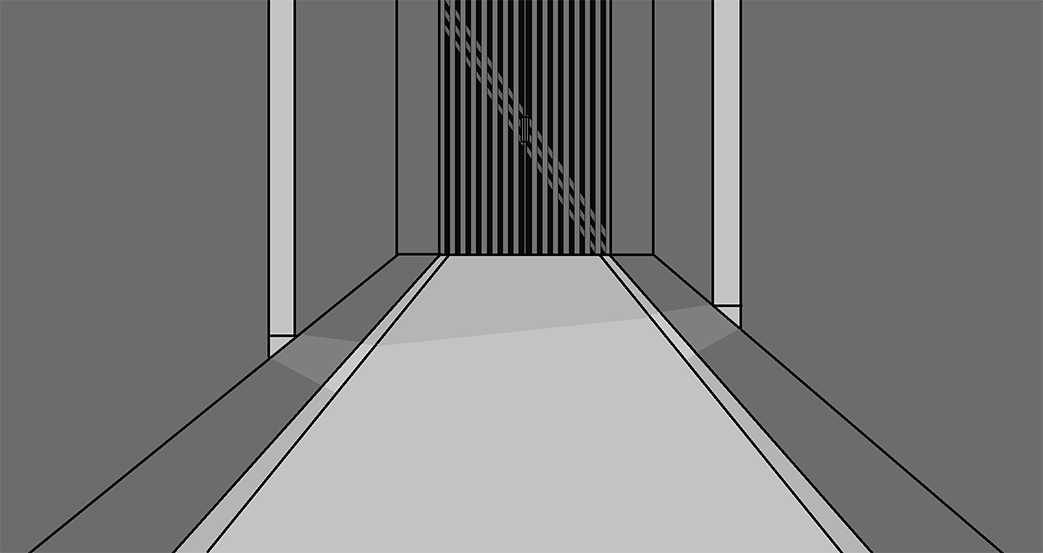
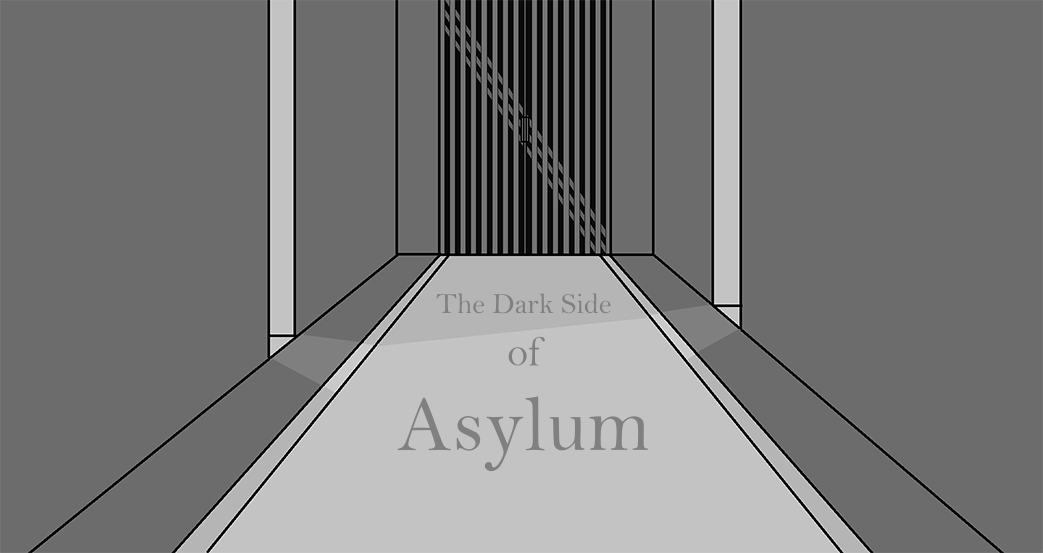
Imagem do menu com o nome e nome do jogo na titulo da screen

Changed region(s): [[0.3682, 0.7071, 0.6443, 0.8608], [0.4295, 0.5226, 0.5829, 0.5841], [0.4909, 0.6148, 0.5216, 0.6763]]

diff --git a/The dark side of asylum-core/src/com/the_darkside_of_asylum_jogo/game/tela/Escolhas.java b/The dark side of asylum-core/src/com/the_darkside_of_asylum_jogo/game/tela/Escolhas.java
@@ -319,7 +319,7 @@ public class Escolhas {
 		this.matriz [22][8] = "/home/leticia/git/The-dark-side-of-asylum/The dark side of asylum-core/assets/Imagens/Escolhas/10-1.png";
 		this.matriz [22][9] = "Remedio";
 		this.matriz [22][10] = "Remedio";
-		this.matriz [22][11] = "Remedio";
+		this.matriz [22][11] = "Porta";
 		
 		this.matriz [23][0] = "Procurar novas evid�ncias no quarto do paciente suspeito";
 		this.matriz [23][1] = "/home/leticia/git/The-dark-side-of-asylum/The dark side of asylum-core/assets/Imagens/Textos/24.png";
@@ -404,27 +404,27 @@ public class Escolhas {
 		this.matriz [29][2] = "";
 		this.matriz [29][3] = "";
 		this.matriz [29][4] = "";
-		this.matriz [29][9] = "";
-		this.matriz [29][10] = "";
-		this.matriz [29][11] = "";
+		this.matriz [29][5] = "";
+		this.matriz [29][6] = "";
+		this.matriz [29][7] = "";
 		
 		this.matriz [30][0] = "Volta pra ilha com uma equipe de busca";
 		this.matriz [30][1] = "/home/leticia/git/The-dark-side-of-asylum/The dark side of asylum-core/assets/Imagens/Textos/31.png";
 		this.matriz [30][2] = "";
 		this.matriz [30][3] = "";
 		this.matriz [30][4] = "";
-		this.matriz [30][9] = "";
-		this.matriz [30][10] = "";
-		this.matriz [30][11] = "";
+		this.matriz [30][5] = "";
+		this.matriz [30][6] = "";
+		this.matriz [30][7] = "";
 		
 		this.matriz [31][0] = "Resolve visitar seu bar favorito";
 		this.matriz [31][1] = "/home/leticia/git/The-dark-side-of-asylum/The dark side of asylum-core/assets/Imagens/Textos/32.png";
 		this.matriz [31][2] = "";
 		this.matriz [31][3] = "";
 		this.matriz [31][4] = "";
-		this.matriz [31][9] = "";
-		this.matriz [31][10] = "";
-		this.matriz [31][11] = "";
+		this.matriz [31][5] = "";
+		this.matriz [31][6] = "";
+		this.matriz [31][7] = "";
 		
 		this.matriz [32][0] = "Se dirige at� ele e se senta ao seu lado";
 		this.matriz [32][1] = "/home/leticia/git/The-dark-side-of-asylum/The dark side of asylum-core/assets/Imagens/Textos/33.png";
@@ -479,18 +479,18 @@ public class Escolhas {
 		this.matriz [36][2] = "";
 		this.matriz [36][3] = "";
 		this.matriz [36][4] = "";
-		this.matriz [36][9] = "";
-		this.matriz [36][10] = "";
-		this.matriz [36][11] = "";
+		this.matriz [36][5] = "";
+		this.matriz [36][6] = "";
+		this.matriz [36][7] = "";
 		
 		this.matriz [37][0] = "Vai at� o suspeito";
 		this.matriz [37][1] = "/home/leticia/git/The-dark-side-of-asylum/The dark side of asylum-core/assets/Imagens/Textos/37.png";
 		this.matriz [37][2] = "";
 		this.matriz [37][3] = "";
 		this.matriz [37][4] = "";
-		this.matriz [37][9] = "";
-		this.matriz [37][10] = "";
-		this.matriz [37][11] = "";
+		this.matriz [37][5] = "";
+		this.matriz [37][6] = "";
+		this.matriz [37][7] = "";
 		
 		this.matriz [38][0] = "Vai encher a cara";
 		this.matriz [38][1] = "/home/leticia/git/The-dark-side-of-asylum/The dark side of asylum-core/assets/Imagens/Textos/38.png";
@@ -762,8 +762,10 @@ public class Escolhas {
 		}
 
 		if(matriz[this.numero_escolha][2] == ""){
-			this.fundo_final = this.Consultar_imagem(matriz[this.numero_escolha][5]);
-			this.animacao_final = this.Consultar_imagem(matriz[this.numero_escolha][6]);
+			if (matriz[this.numero_escolha][5] != "") {
+				this.fundo_final = this.Consultar_imagem(matriz[this.numero_escolha][5]);
+				this.animacao_final = this.Consultar_imagem(matriz[this.numero_escolha][6]);
+			}
 			return true;
 		}
 		else{

diff --git a/The dark side of asylum-desktop/src/com/the_darkside_of_asylum_jogo/game/desktop/DesktopLauncher.java b/The dark side of asylum-desktop/src/com/the_darkside_of_asylum_jogo/game/desktop/DesktopLauncher.java
@@ -9,6 +9,7 @@ public class DesktopLauncher {
 		LwjglApplicationConfiguration config = new LwjglApplicationConfiguration();
 		config.width = 1043;
 		config.height = 553;
+		config.title = "The Dark Side of Asylum";
 		new LwjglApplication(new The_DarkSide_of_Asylum_Jogo(), config);
 				
 	}
